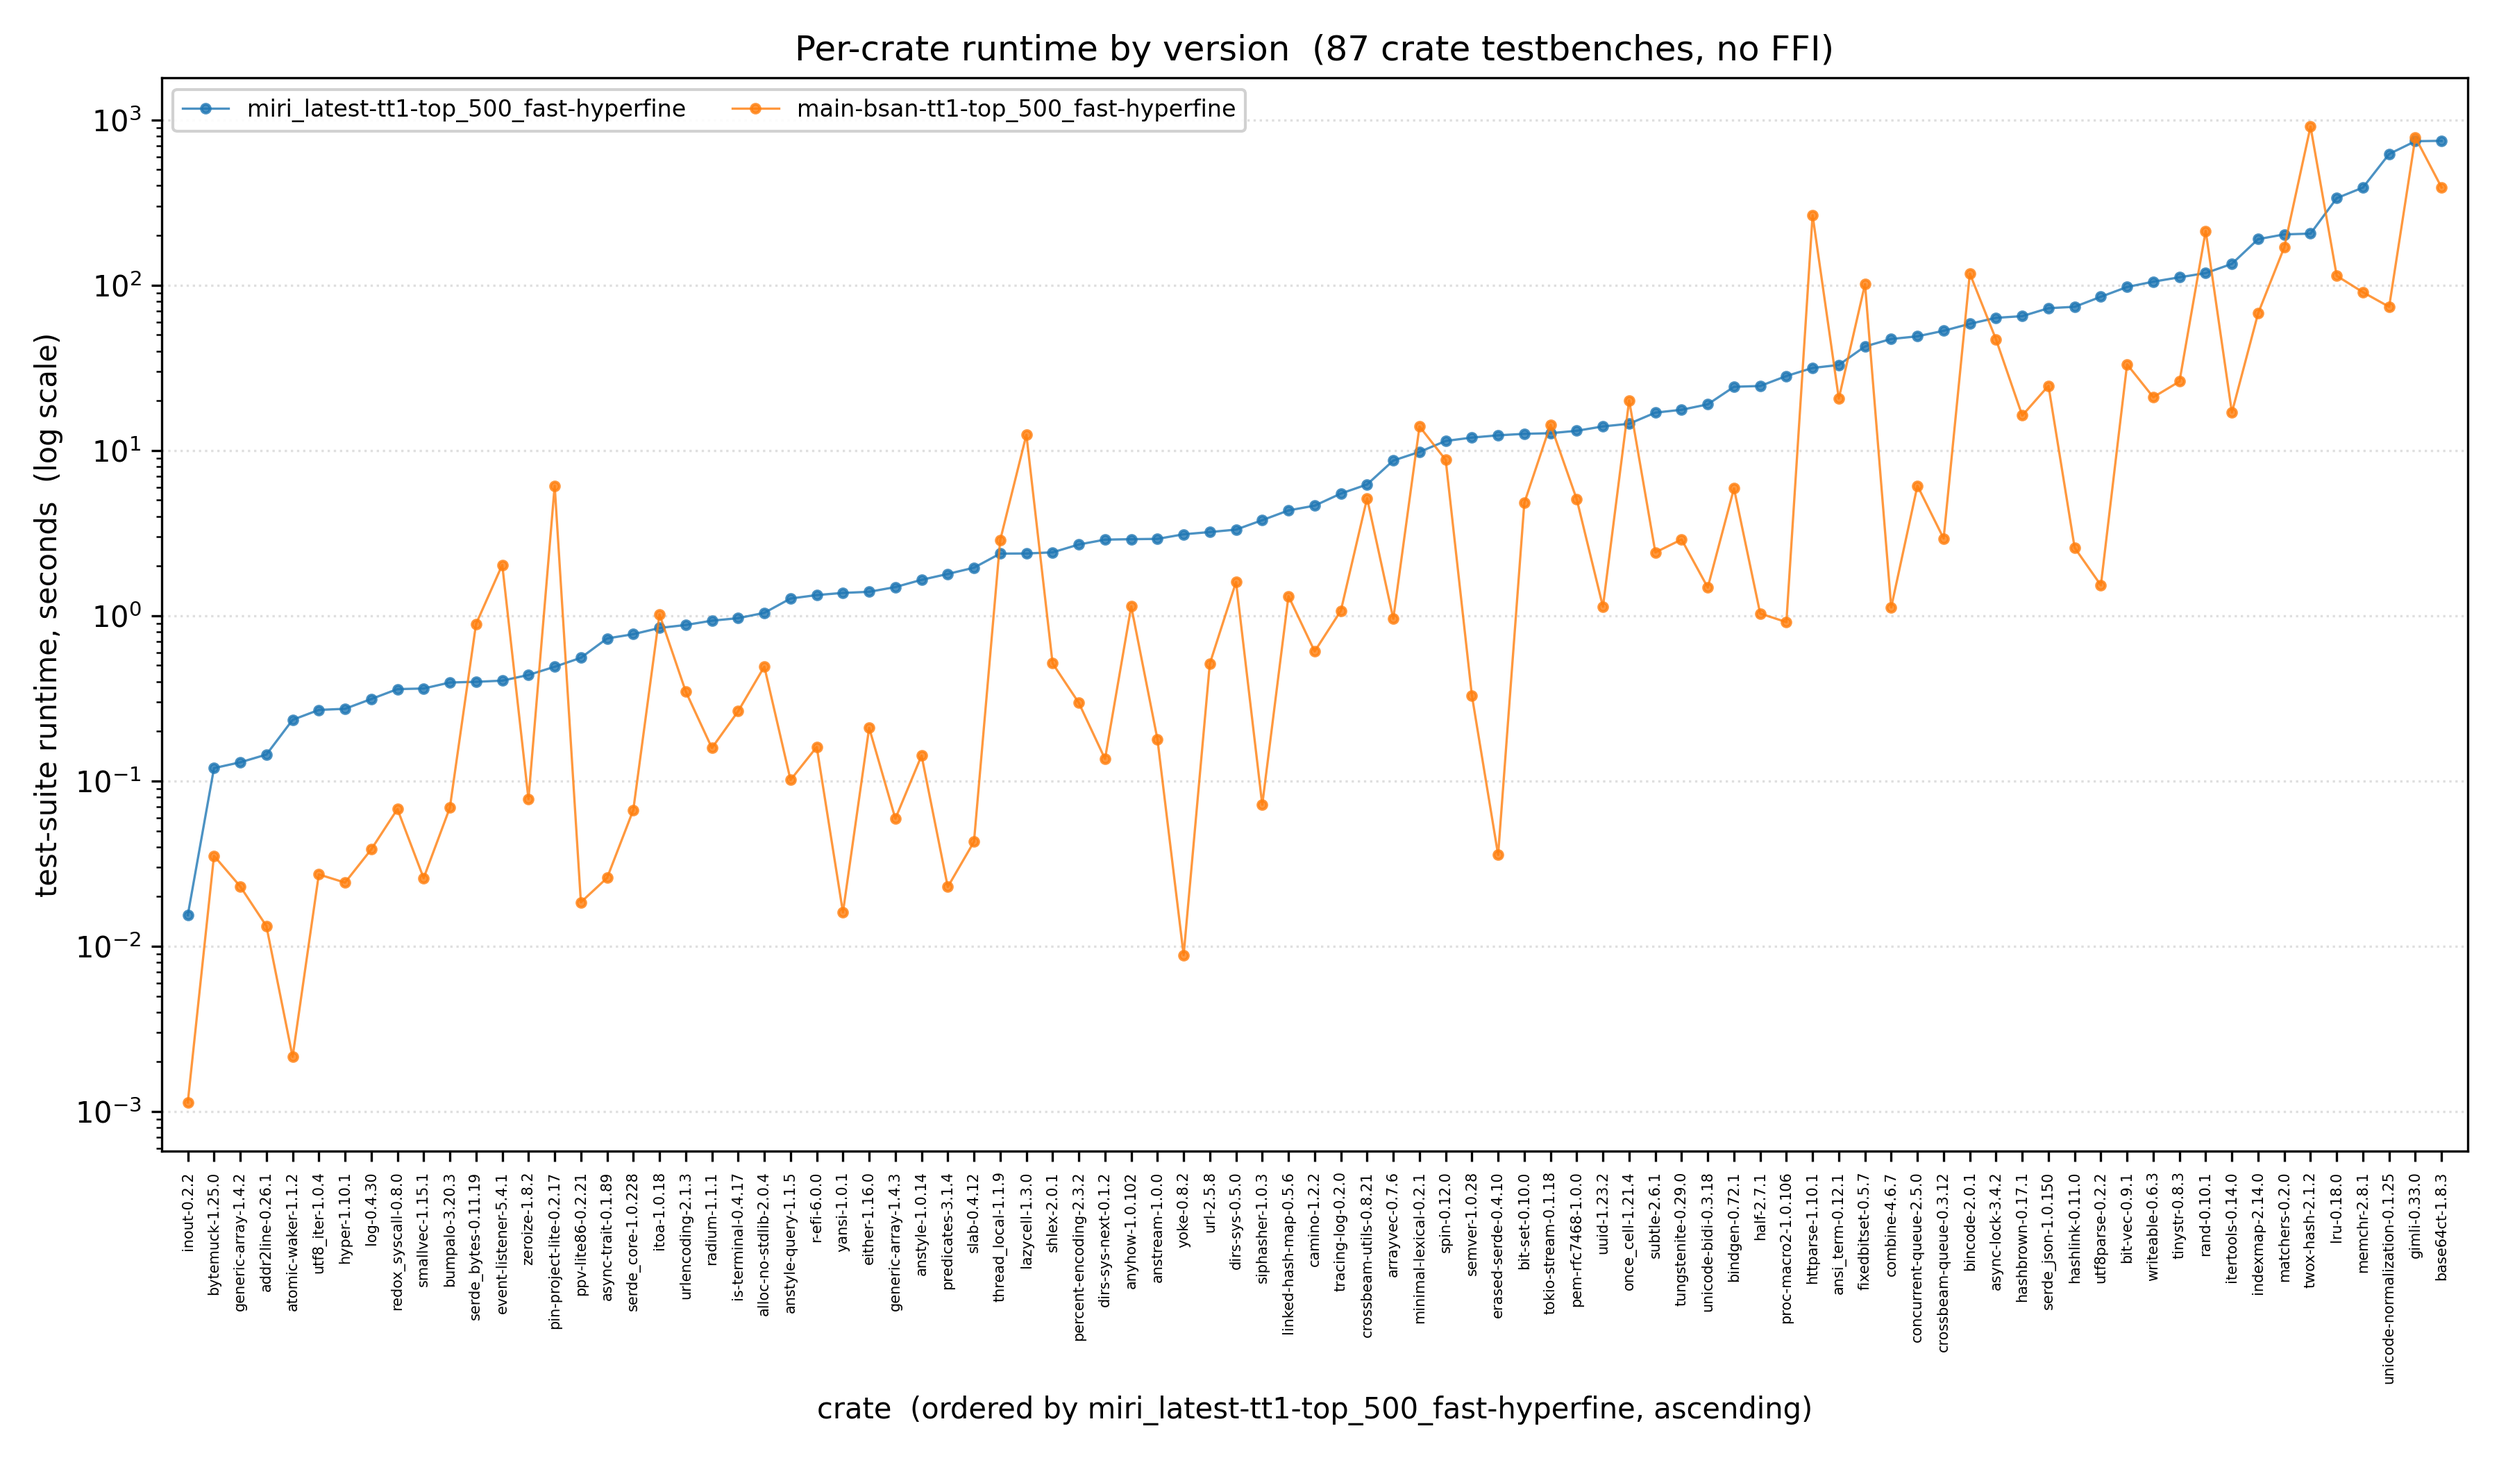
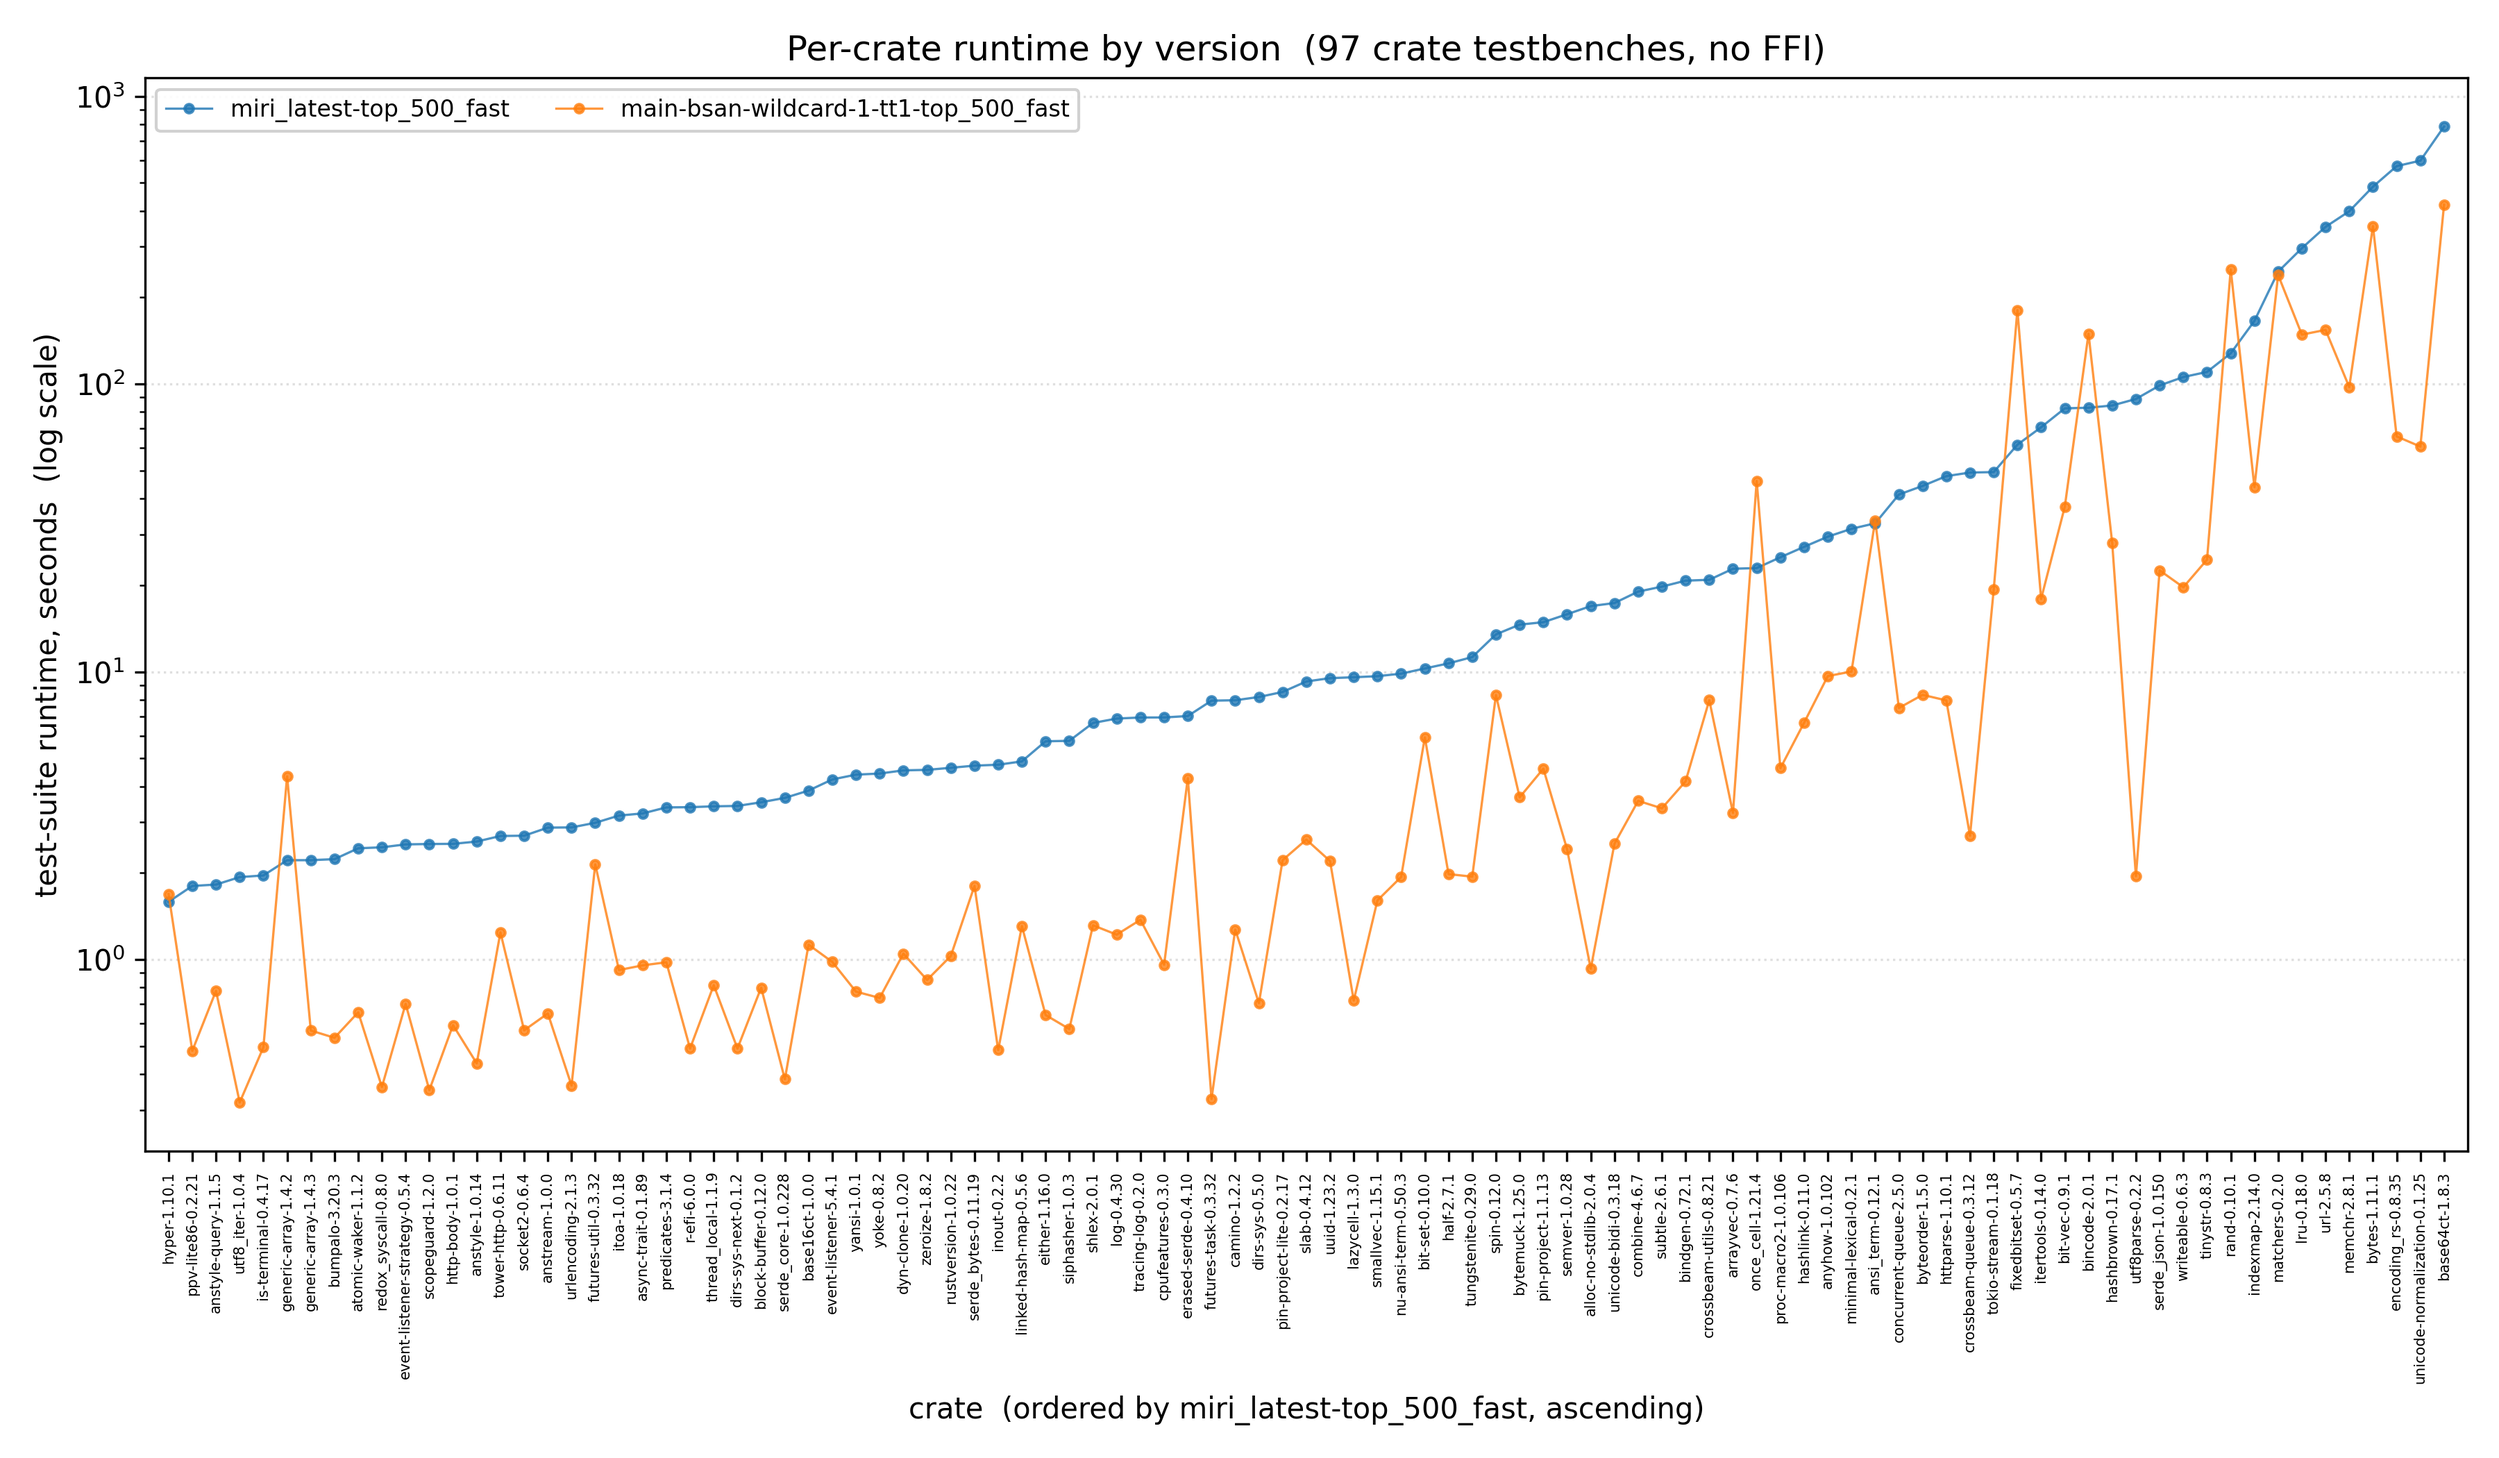
charts

diff --git a/scripts/analysis/plot_by_crate.py b/scripts/analysis/plot_by_crate.py
@@ -56,7 +56,15 @@ ignore)]) tests the others ran, and every one that did run then passed. Add
                    --tests-csv FILE points at one directly. The output file
                    gains a _no_ffi suffix so it never overwrites the full plot.
 
-The PNG is written to <output_dir>/<metric>_by_crate[_no_ffi].png. The outputs dir
+  --min-seconds N  drop crates whose measured time in the FIRST csv is under
+                   N seconds -- the crates whose totals are mostly the
+                   per-invocation startup constant that survives the
+                   calibration subtraction. For overhead/speedup that first csv
+                   is the baseline, so this also removes the ratios whose
+                   denominator was noise. Excluded crates are listed with their
+                   times, and the output file gains a _min<N>s suffix.
+
+The PNG is written to <output_dir>/<metric>_by_crate[_no_ffi][_min<N>s].png. The outputs dir
 defaults to <repo root>/outputs, found relative to this script (so it works
 both locally and on the cluster); override with $OUTPUTS_DIR.
 """
@@ -80,8 +88,8 @@ METRICS = {
     "seconds": {
         "has_baseline": False,
         "check_passed": True,
-        "ylabel": "test-suite runtime, seconds  (log scale)",
-        "title": "Per-crate runtime by version",
+        "ylabel": "Testbench Runtime, Seconds  (Log Scale)",
+        "title": "With vs Without Compaction (GC): Crate Testbench Runtimes",
     },
     "overhead": {
         "has_baseline": True,
@@ -401,6 +409,14 @@ def main():
                              "where EVERY test passed in EVERY input are drawn, since a "
                              "run that bailed out partway is not the same workload as one "
                              "that completed. (--allow-passed-mismatch is the old name.)")
+    parser.add_argument("--min-seconds", type=float, metavar="N",
+                        help="drop crates whose measured time in the FIRST csv is under N "
+                             "seconds. Aimed at the calibration noise floor: a crate whose "
+                             "total is a fraction of a second is mostly per-invocation "
+                             "startup residue, and for overhead/speedup it is the baseline "
+                             "such a crate divides into, which inflates the ratio. Excluded "
+                             "crates are listed with their times. The output file gains a "
+                             "_min<N>s suffix so it cannot overwrite the unfiltered plot.")
     parser.add_argument("--require-equal-passed", action="store_true",
                         help="additionally require the passed test COUNT to match across "
                              "inputs. All-passing does not imply equal counts: an input "
@@ -571,6 +587,30 @@ def main():
         if with_ffi or unknown:
             print()
 
+    # --min-seconds cuts on the FIRST csv, before the pass filter, so the
+    # exclusion table below doesn't list crates that are out of scope anyway.
+    # The first input is the natural reference: for `seconds` it also sets the x
+    # ordering, and for overhead/speedup it is the baseline every ratio divides
+    # by -- a baseline down in the noise floor turns the ratio into a
+    # startup-cost artifact rather than a measurement.
+    if args.min_seconds is not None:
+        ref_label, ref_data = loaded[0][0], loaded[0][1]
+
+        def ref_secs(crate):
+            return run_seconds(ref_data.get(crate) or {}) or 0.0
+
+        too_small = sorted((c for c in usable if ref_secs(c) < args.min_seconds),
+                           key=lambda c: -ref_secs(c))
+        if too_small:
+            small = set(too_small)
+            usable = [c for c in usable if c not in small]
+            print(f"\n--min-seconds {args.min_seconds:g} excluded {len(too_small)} "
+                  f"crate(s) measuring under that in {ref_label}:")
+            cw = max(max(len(c) for c in too_small), len("crate")) + 2
+            for crate in too_small:
+                print(f"  {crate.ljust(cw)}{ref_secs(crate):9.3f}s")
+            print()
+
     def selected(crate):
         if not args.allow_failures and not clean_everywhere(crate):
             return False
@@ -621,7 +661,7 @@ def main():
             continue
         xs, ys = zip(*pts)
         ax.plot(xs, ys, marker="o", ms=3, lw=0.8, alpha=0.8,
-                color=cmap(i % cmap.N), label=label)
+                color=cmap(i % cmap.N+3), label=label)
 
     if metric == "speedup":
         ax.axhline(1.0, ls="--", color="0.4", lw=1)
@@ -632,18 +672,25 @@ def main():
     ax.set_xticks(list(xs_all))
     ax.set_xticklabels(crates, rotation=90, fontsize=5)
     ax.set_xlim(-1, len(crates))
-    ax.set_xlabel(f"crate  (ordered by {series[0][0]}, ascending)")
-    ax.set_ylabel(spec["ylabel"].format(baseline=baseline_label))
-    ax.set_title(f"{spec['title']}  ({len(crates)} crate testbenches"
-                 f"{', no FFI' if args.no_ffi else ''})")
+    ax.set_xlabel(f"Crate  (Ordered by {series[0][0]}, ascending)", fontsize=12)
+    ax.set_ylabel(spec["ylabel"].format(baseline=baseline_label),fontsize=12)
+    ax.set_title(f"{spec['title']}  ({len(crates)} Crates with Unsafe)"
+                 f"{', no FFI' if args.no_ffi else ''}"
+                 #f"{f', >={args.min_seconds:g}s' if args.min_seconds is not None else ''})"
+                , fontsize=14)
     ax.grid(True, axis="y", ls=":", alpha=0.4)
-    ax.legend(loc="upper left", fontsize=8, ncol=2, framealpha=0.9)
+    ax.legend(loc="upper left", fontsize=12, ncol=2, framealpha=0.9)
     fig.tight_layout()
 
     os.makedirs(args.output_dir, exist_ok=True)
-    # The _no_ffi suffix keeps a filtered plot from overwriting the full one.
-    out = os.path.join(args.output_dir, f"{metric}_by_crate"
-                       f"{'_no_ffi' if args.no_ffi else ''}.{args.format}")
+    # The _no_ffi / _min<N>s suffixes keep a filtered plot from overwriting the
+    # full one. The float is rendered with 'p' for the point so the name stays
+    # one extension-free token (0.5 -> _min0p5s).
+    tag = "_no_ffi" if args.no_ffi else ""
+    if args.min_seconds is not None:
+        tag += "_min" + f"{args.min_seconds:g}".replace(".", "p") + "s"
+    out = os.path.join(args.output_dir,
+                       f"{metric}_by_crate{tag}.{args.format}")
     fig.savefig(out, dpi=args.dpi)
     plt.close(fig)
 
